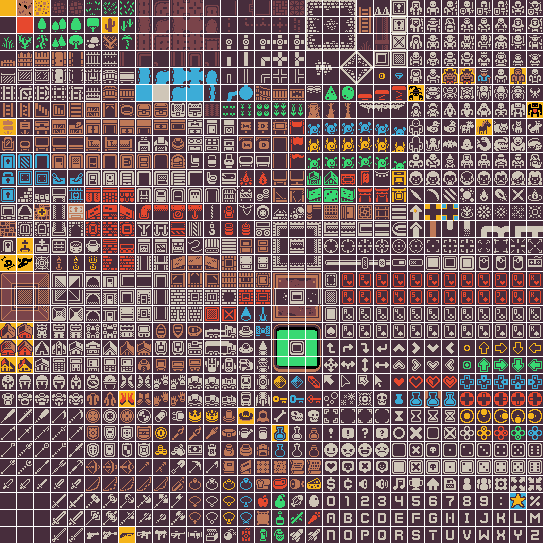
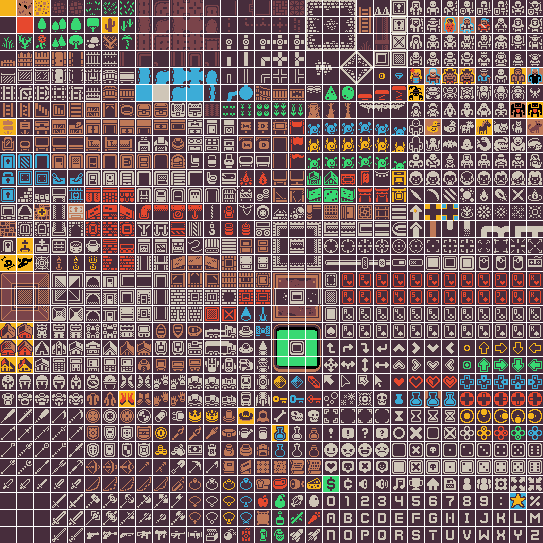
feat: add rose

diff --git a/src/main/java/com/codecool/dungeoncrawl/logic/MapLoader.java b/src/main/java/com/codecool/dungeoncrawl/logic/MapLoader.java
@@ -9,7 +9,7 @@ import java.util.Scanner;
 
 public class MapLoader {
 
-    private static final String[] mapFileNames = {"/map.txt", "/map2.txt","/gunstore.txt", "/map3.txt"};
+    private static final String[] mapFileNames = {/*"/map.txt", "/map2.txt","/gunstore.txt",*/ "/map3.txt"};
 
     public static ArrayList<GameMap> loadAllMaps() {
         int currentMapNumber = 0;
@@ -343,7 +343,14 @@ public class MapLoader {
                         case 'ű':
                             cell.setType(CellType.SNIPER);
                             break;
-
+                        case '9':
+                            cell.setType(CellType.SALOONFLOOR);
+                            map.addItem(new Chick(cell));
+                            break;
+                        case '8':
+                            cell.setType(CellType.SALOONFLOOR);
+                            map.addItem(new Rose(cell));
+                            break;
 
                         default:
                             throw new RuntimeException("Unrecognized character: '" + line.charAt(x) + "'");

diff --git a/src/main/java/com/codecool/dungeoncrawl/Tiles.java b/src/main/java/com/codecool/dungeoncrawl/Tiles.java
@@ -33,6 +33,7 @@ public class Tiles {
         tileMap.put("barMan", new Tile(28, 4));
         tileMap.put("player2", new Tile(27, 4));
         tileMap.put("player3", new Tile(26, 4));
+        tileMap.put("chick", new Tile(24, 4));
         tileMap.put("player", new Tile(30, 4));
         tileMap.put("boots", new Tile(7, 23));
         tileMap.put("hat", new Tile(14, 24));
@@ -101,7 +102,7 @@ public class Tiles {
         tileMap.put("barCenterDown", new Tile(17, 18));
         tileMap.put("barRightTop", new Tile(18, 16));
         tileMap.put("barRightDown", new Tile(18, 18));
-        tileMap.put("gangsta", new Tile(30, 0));
+        tileMap.put("gangsta", new Tile(28, 1));
         tileMap.put("poker1", new Tile(16, 19));
         tileMap.put("poker2", new Tile(17, 19));
         tileMap.put("poker3", new Tile(18, 19));
@@ -125,6 +126,7 @@ public class Tiles {
         tileMap.put("uzi", new Tile(9, 31));
         tileMap.put("sniper", new Tile(10, 31));
         tileMap.put("coin", new Tile(19, 28));
+        tileMap.put("rose", new Tile(2, 2));
 
     }
 

diff --git a/src/main/java/com/codecool/dungeoncrawl/logic/items/Chick.java b/src/main/java/com/codecool/dungeoncrawl/logic/items/Chick.java
@@ -1,0 +1,15 @@
+package com.codecool.dungeoncrawl.logic.items;
+
+import com.codecool.dungeoncrawl.logic.Cell;
+
+public class Chick extends Item{
+
+    public Chick(Cell cell) {
+        super(cell);
+    }
+
+    @Override
+    public String getTileName() {
+        return "chick";
+    }
+}

diff --git a/src/main/java/com/codecool/dungeoncrawl/logic/items/Rose.java b/src/main/java/com/codecool/dungeoncrawl/logic/items/Rose.java
@@ -1,0 +1,14 @@
+package com.codecool.dungeoncrawl.logic.items;
+
+import com.codecool.dungeoncrawl.logic.Cell;
+
+public class Rose extends Item{
+    public Rose(Cell cell) {
+        super(cell);
+    }
+
+    @Override
+    public String getTileName() {
+        return "rose";
+    }
+}
